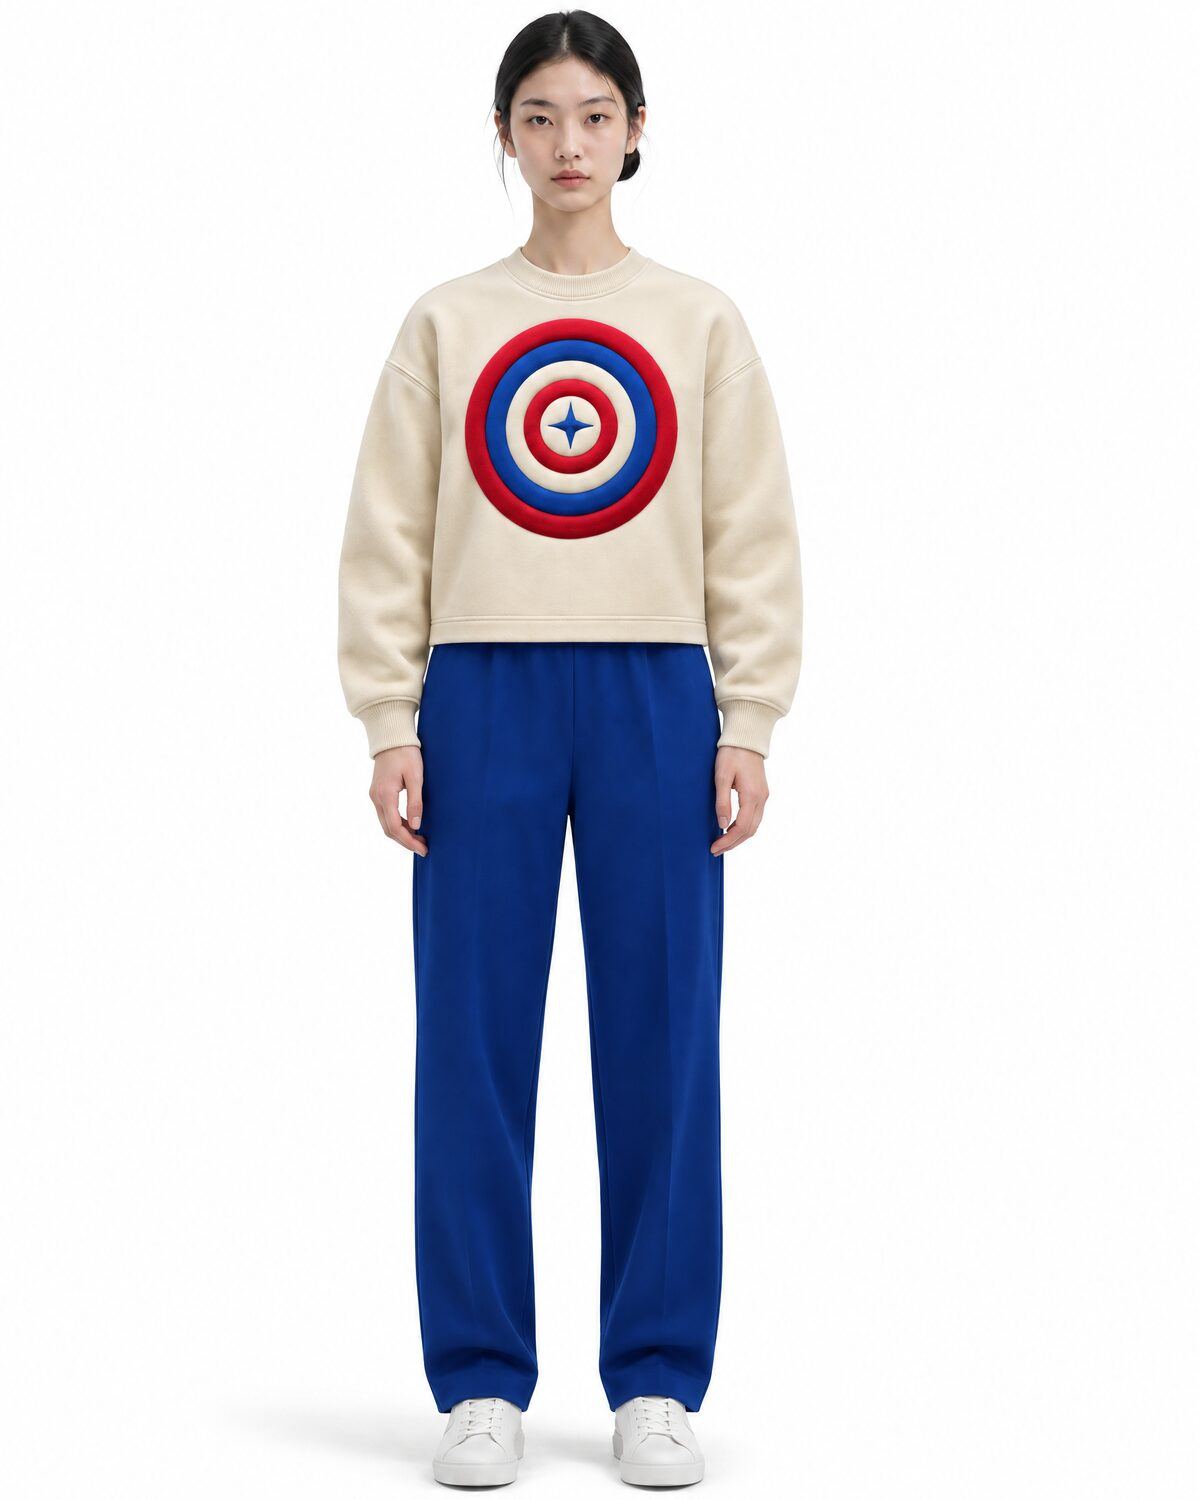
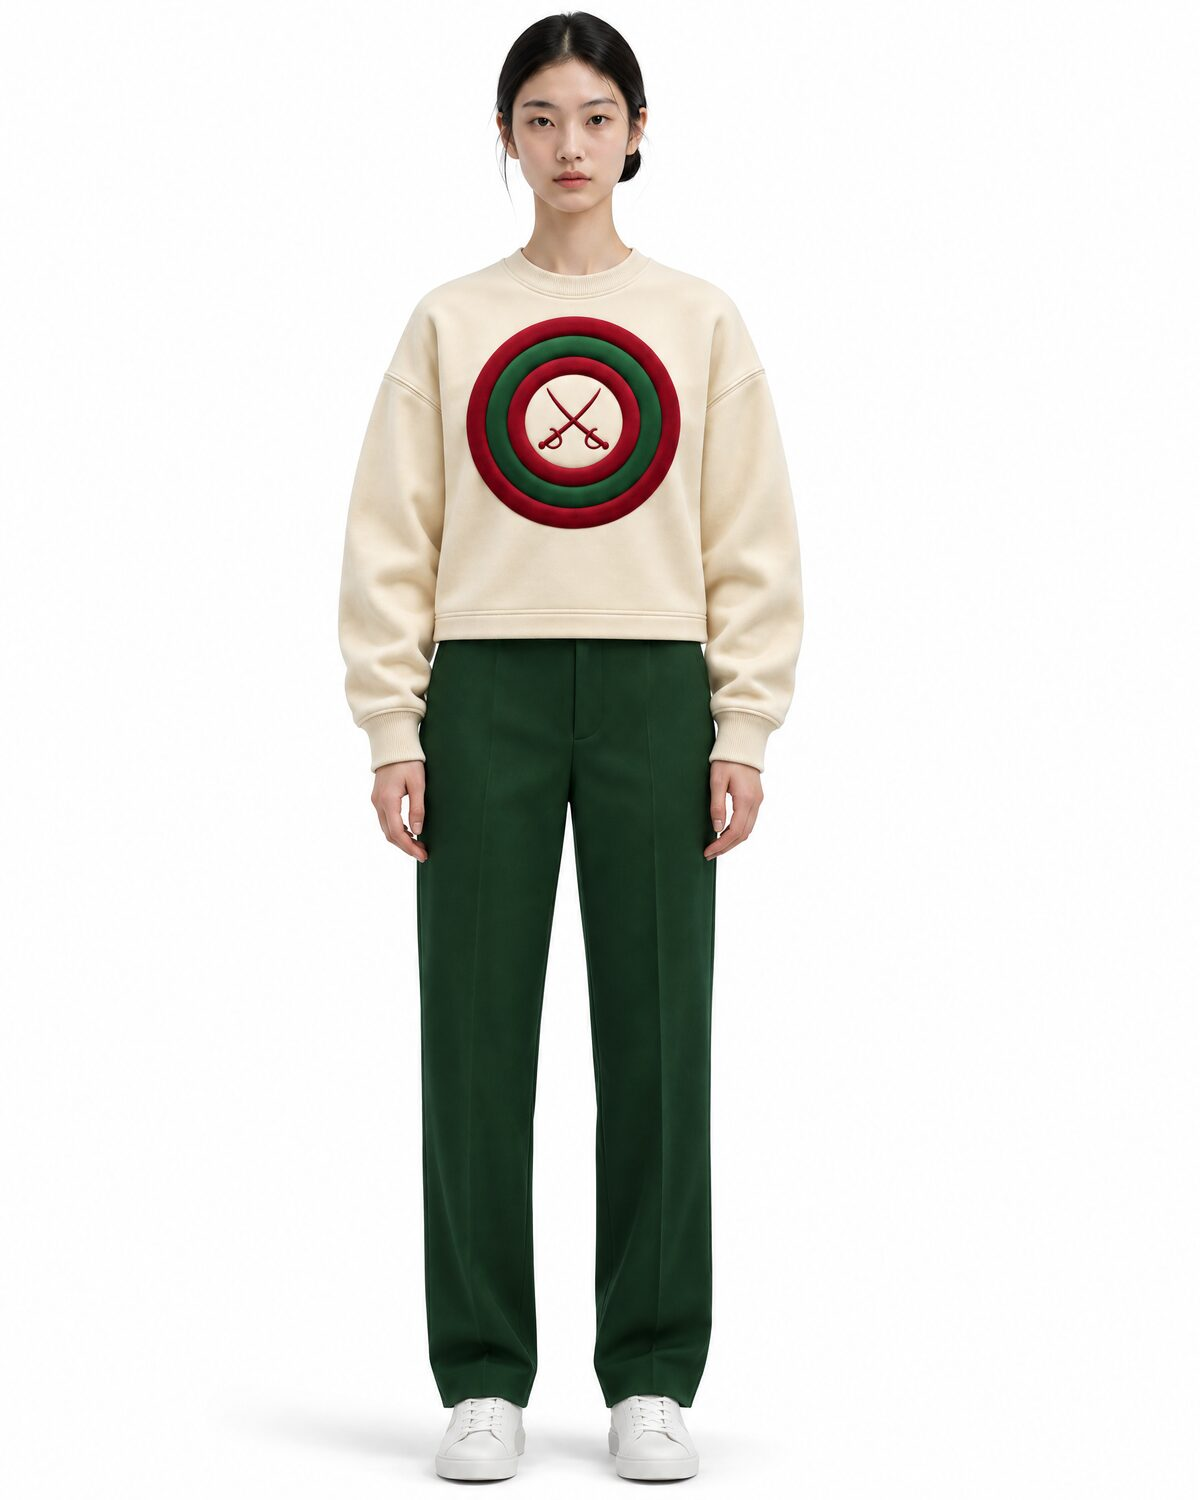
Musketeer: photos for 22 new original pieces, Riposte print redesigned
Claude-Session: https://claude.ai/code/session_01VEFUWMZpR4F82W583t7syd

diff --git a/musketeer/README.md b/musketeer/README.md
@@ -7,7 +7,7 @@ Todo el material visual (logotipos, fotografía de producto, campaña y mockups 
 **Web en vivo:** https://musketeer-eight.vercel.app
 
 - **Logo v2:** `musketeer™` (principal), `msktr™` (marca corta), `msk✦tr` (gráfico), estrella de estoques (símbolo) y sello MSKTR.
-- **Catálogo:** 53 piezas. 15 de la **línea 2026** (boxy recortado y color: varsity, chándal, rugby, polo de punto, Mantle Cropped Jacket…) y 38 del catálogo clásico.
+- **Catálogo:** 75 piezas. 37 de la **línea 2026** (boxy recortado y color: varsity, chándal, rugby, polo de punto, Mantle Cropped Jacket…) y 38 del catálogo clásico.
 
 ## Arrancar
 
@@ -34,7 +34,7 @@ Código de descuento de prueba: `TOUSPOURUN` (−10 %).
 ## Estructura
 
 - `BRIEF.md` — concepto, logo, paleta, tipografía y reglas visuales.
-- `src/data/catalog.json` — los 53 productos (los de `"line": "2026"` son la línea nueva) (precios, tallas, colores, imágenes y el brief de generación de cada foto).
+- `src/data/catalog.json` — los 75 productos (los de `"line": "2026"` son la línea nueva) (precios, tallas, colores, imágenes y el brief de generación de cada foto).
 - `src/data/campaign.json` — imágenes de campaña.
 - `public/brand/` — logotipos SVG (wordmark, emblema, monograma, gótico, sello) en negro, blanco y `currentColor`.
 - `brand-source/` — vectores originales de Recraft V4.1.
